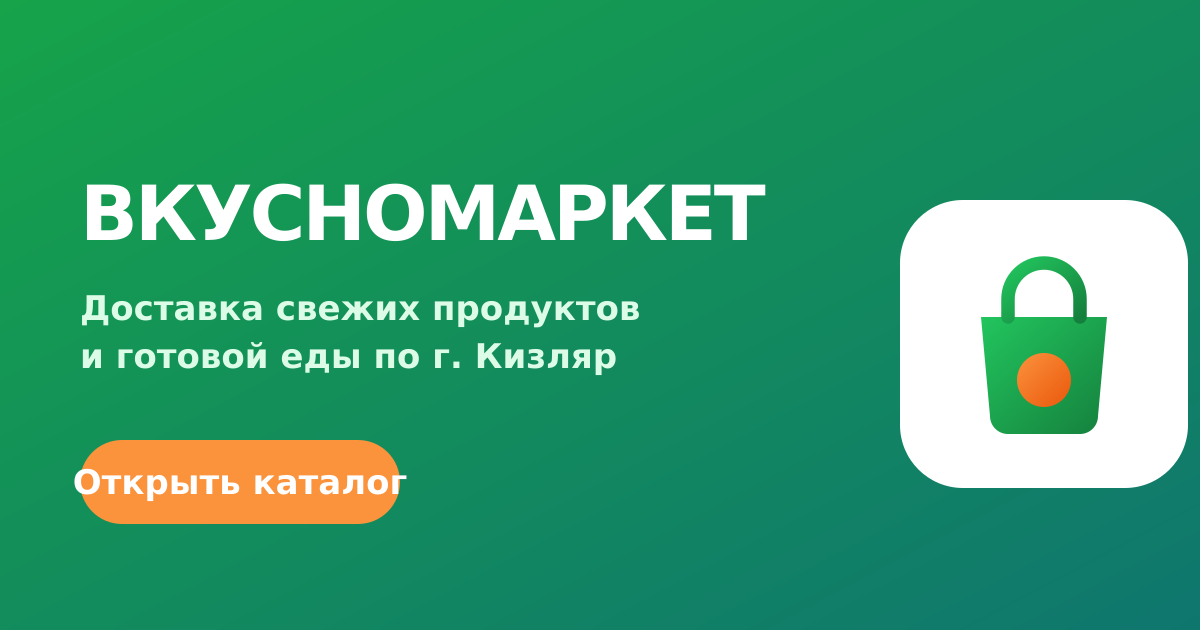
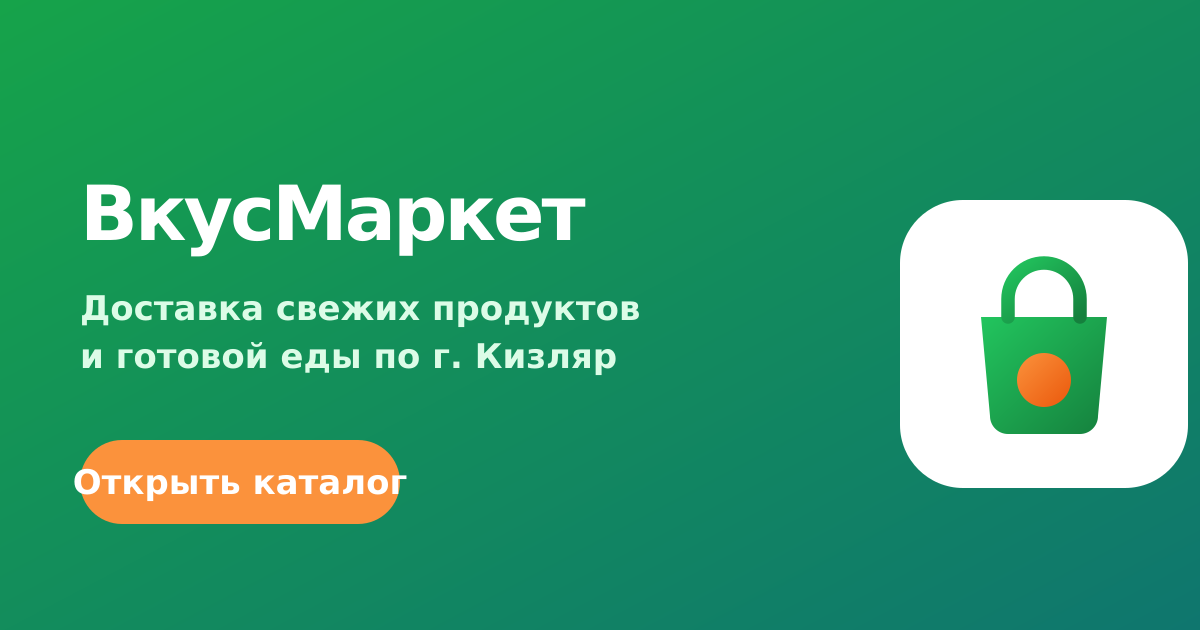
feat: rename brand to ВкусМаркет
- Replace ВКУСНОМАРКЕТ → ВкусМаркет across all UI text, manifest, README, SETUP.md
- Logo split updated: «Вкус» (purple) + «Маркет» (black)
- Seed vendor brand_name in static fallback updated
- Migration 0006: UPDATE seed vendor brand_name in production DB
- Regenerate og-image.png with new brand text
- Slugs, IDs, repo/package names, ВМ monogram preserved

Changed region(s): [[0.1233, 0.2714, 0.6475, 0.4222]]

diff --git a/src/components/layout/Logo.tsx b/src/components/layout/Logo.tsx
@@ -12,8 +12,8 @@ export function Logo({ size = 36, withText = true, className }: LogoProps) {
       <LogoMark size={size} />
       {withText && (
         <span className="text-[18px] font-extrabold leading-none tracking-tight">
-          <span className="text-brand-600">ВКУСНО</span>
-          <span className="text-ink-900">МАРКЕТ</span>
+          <span className="text-brand-600">Вкус</span>
+          <span className="text-ink-900">Маркет</span>
         </span>
       )}
     </div>
@@ -27,7 +27,7 @@ export function LogoMark({ size = 36 }: { size?: number }) {
       height={size}
       viewBox="0 0 64 64"
       xmlns="http://www.w3.org/2000/svg"
-      aria-label="ВКУСНОМАРКЕТ"
+      aria-label="ВкусМаркет"
     >
       <defs>
         <linearGradient id="vmPurple" x1="0" y1="0" x2="1" y2="1">
@@ -64,7 +64,7 @@ export function BrandPill({ className }: { className?: string }) {
         className
       )}
     >
-      ВКУСНОМАРКЕТ
+      ВкусМаркет
     </span>
   );
 }

diff --git a/src/app/manifest.ts b/src/app/manifest.ts
@@ -2,8 +2,8 @@ import type { MetadataRoute } from "next";
 
 export default function manifest(): MetadataRoute.Manifest {
   return {
-    name: "ВКУСНОМАРКЕТ — доставка по Кизляру",
-    short_name: "ВКУСНОМАРКЕТ",
+    name: "ВкусМаркет — доставка по Кизляру",
+    short_name: "ВкусМаркет",
     description:
       "Доставка свежих продуктов с рынка, товаров из лавок и готовой еды по г. Кизляр и району.",
     start_url: "/",

diff --git a/src/components/home/HomeHero.tsx b/src/components/home/HomeHero.tsx
@@ -74,7 +74,7 @@ export function HomeHero({ citySlot }: HomeHeroProps) {
         <div className="flex items-center justify-between">
           <Link
             href="/"
-            aria-label="ВКУСНОМАРКЕТ — на главную"
+            aria-label="ВкусМаркет — на главную"
             className="block"
           >
             <span className="inline-flex h-9 w-9 items-center justify-center rounded-2xl bg-ink-900 text-[10px] font-extrabold leading-none text-accent-300 shadow-md shadow-black/30">
@@ -87,7 +87,7 @@ export function HomeHero({ citySlot }: HomeHeroProps) {
 
         <div className="mt-4 mb-1">
           <h1 className="text-[20px] font-extrabold leading-tight text-white drop-shadow-sm">
-            ВКУСНОМАРКЕТ
+            ВкусМаркет
           </h1>
           <p className="text-[12px] font-medium leading-tight text-white/80">
             Еда. Продукты. Аптека. Дом — в одном приложении

diff --git a/src/data/vendors.ts b/src/data/vendors.ts
@@ -10,7 +10,7 @@ export const VENDORS: Vendor[] = [
   {
     id: DEFAULT_VENDOR_ID,
     slug: "vkusnomarket-kizlyar",
-    brandName: "ВКУСНОМАРКЕТ Кизляр",
+    brandName: "ВкусМаркет Кизляр",
     verticalPrimary: "food",
     verticals: ["food", "grocery"],
     cityId: "city-kizlyar",
@@ -18,7 +18,7 @@ export const VENDORS: Vendor[] = [
     shortDescription:
       "Готовая еда, продукты с рынка и из лавок Кизляра",
     description:
-      "Первый продавец платформы ВКУСНОМАРКЕТ — собственный магазин с готовой едой, свежими овощами и фруктами с местного рынка, мясом, выпечкой и товарами с лавок.",
+      "Первый продавец платформы ВкусМаркет — собственный магазин с готовой едой, свежими овощами и фруктами с местного рынка, мясом, выпечкой и товарами с лавок.",
     contacts: {
       phone: "[phone redacted]",
       telegram: "@vkusnomarket05_bot",

diff --git a/src/app/admin/Maksud/page.tsx b/src/app/admin/Maksud/page.tsx
@@ -21,7 +21,7 @@ export default async function AdminLoginPage() {
           <h1 className="mt-2 text-[20px] font-extrabold text-ink-900">
             Админ-панель
           </h1>
-          <p className="text-[13px] text-ink-500">ВКУСНОМАРКЕТ · Кизляр</p>
+          <p className="text-[13px] text-ink-500">ВкусМаркет · Кизляр</p>
         </div>
         <div className="mt-6">
           <LoginForm />

diff --git a/src/app/vertical/[vertical]/page.tsx b/src/app/vertical/[vertical]/page.tsx
@@ -216,7 +216,7 @@ function ComingSoonNotice({
       </h3>
       <p className="mt-1 text-[12px] leading-snug text-brand-800/90">
         Мы пока не подключили продавцов в этой вертикали. Если вы предприниматель
-        — напишите нам, и мы запустим ВКУСНОМАРКЕТ здесь раньше.
+        — напишите нам, и мы запустим ВкусМаркет здесь раньше.
       </p>
     </div>
   );

diff --git a/src/components/home/CityComingSoonNotice.tsx b/src/components/home/CityComingSoonNotice.tsx
@@ -4,7 +4,7 @@ import type { City } from "@/lib/types";
 
 /**
  * Карточка-заглушка для городов со статусом coming_soon — показывается, если
- * пользователь выбрал город, где ВКУСНОМАРКЕТ ещё не запустился.
+ * пользователь выбрал город, где ВкусМаркет ещё не запустился.
  */
 export function CityComingSoonNotice({ city }: { city: City }) {
   return (

diff --git a/src/lib/constants.ts b/src/lib/constants.ts
@@ -1,4 +1,4 @@
-export const APP_NAME = "ВКУСНОМАРКЕТ";
+export const APP_NAME = "ВкусМаркет";
 export const APP_TAGLINE = "Доставка по Кизляру и району";
 export const CITY_NAME = "Кизляр";
 

diff --git a/README.md b/README.md
@@ -1,4 +1,4 @@
-# 🍅 ВКУСНОМАРКЕТ
+# 🍅 ВкусМаркет
 
 > Доставка свежих продуктов с рынка, товаров из лавок и готовой еды по г. Кизляр и району.
 